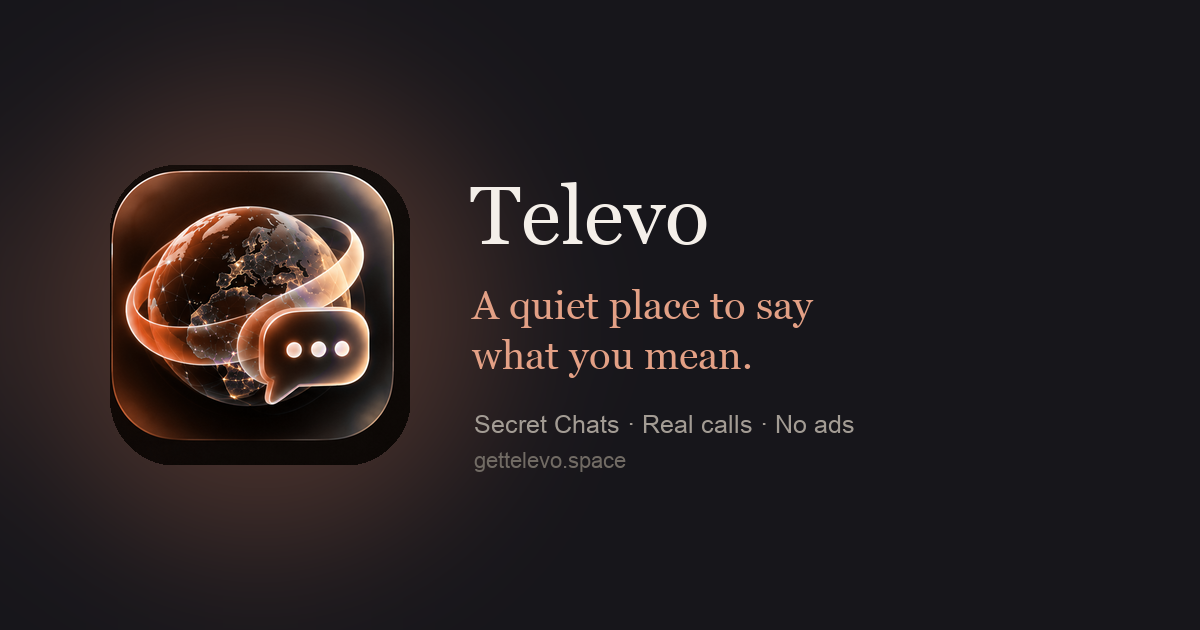
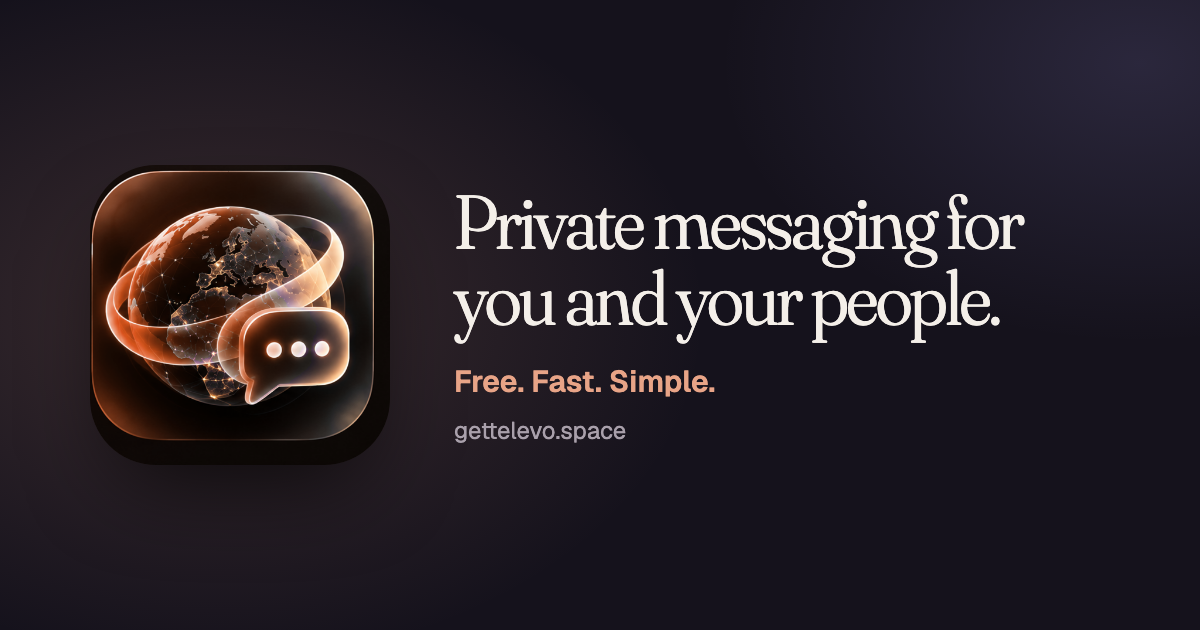
New link preview image and text; Android download always points to the latest build

diff --git a/index.html b/index.html
@@ -11,15 +11,15 @@
 <meta property="og:type" content="website">
 <meta property="og:site_name" content="Televo">
 <meta property="og:url" content="https://gettelevo.space/">
-<meta property="og:title" content="Televo — private messenger for iPhone and Android">
-<meta property="og:description" content="Cloud chats that sync everywhere. Secret Chats only two people can read. Native voice and video calls. No ads, open code.">
-<meta property="og:image" content="https://gettelevo.space/og-image.png">
+<meta property="og:title" content="Televo — private messaging for you and your people">
+<meta property="og:description" content="Free, fast and simple. Chats on every device, voice and video calls, and Secret Chats only the two of you can read. iPhone and Android.">
+<meta property="og:image" content="https://gettelevo.space/og-image.png?v=2">
 <meta property="og:image:width" content="1200">
 <meta property="og:image:height" content="630">
 <meta name="twitter:card" content="summary_large_image">
-<meta name="twitter:image" content="https://gettelevo.space/og-image.png">
-<meta name="twitter:title" content="Televo — private messenger for iPhone and Android">
-<meta name="twitter:description" content="Cloud chats that sync everywhere. Secret Chats only two people can read. No ads, open code.">
+<meta name="twitter:image" content="https://gettelevo.space/og-image.png?v=2">
+<meta name="twitter:title" content="Televo — private messaging for you and your people">
+<meta name="twitter:description" content="Free, fast and simple. Secret Chats only the two of you can read. iPhone and Android.">
 
 <link rel="apple-touch-icon" href="/apple-touch-icon.png">
 <link rel="icon" type="image/png" sizes="32x32" href="/favicon-32.png">
@@ -501,7 +501,7 @@
           <svg width="18" height="18" viewBox="0 0 24 24" fill="currentColor" aria-hidden="true"><path d="M16.37 12.6c-.02-2.2 1.8-3.26 1.88-3.31-1.03-1.5-2.62-1.7-3.18-1.72-1.35-.14-2.64.8-3.33.8-.69 0-1.74-.78-2.87-.76-1.47.02-2.83.86-3.59 2.18-1.53 2.66-.39 6.6 1.1 8.75.73 1.05 1.6 2.24 2.73 2.2 1.1-.05 1.51-.71 2.84-.71 1.32 0 1.7.71 2.86.69 1.18-.02 1.93-1.07 2.65-2.13.84-1.22 1.18-2.4 1.2-2.46-.03-.01-2.3-.88-2.32-3.5zM14.2 6.13c.6-.73 1.01-1.75.9-2.76-.87.04-1.92.58-2.54 1.31-.56.65-1.05 1.68-.92 2.67.97.08 1.96-.49 2.56-1.22z"/></svg>
           <span data-i18n="dl.ios">Download for iPhone</span>
         </a>
-        <a class="btn btn-ghost" data-dl-android href="https://github.com/AToPu-sys/televo-site/releases/download/android-b105/televo-android.apk" download>
+        <a class="btn btn-ghost" data-dl-android href="https://github.com/AToPu-sys/televo-site/releases/latest/download/televo-android.apk" download>
           <svg width="18" height="18" viewBox="0 0 24 24" fill="none" aria-hidden="true"><path d="M6.5 8.5l1.6-2.77M17.5 8.5l-1.6-2.77" stroke="currentColor" stroke-width="1.7" stroke-linecap="round"/><path d="M5 16a7 7 0 0114 0v2a1 1 0 01-1 1H6a1 1 0 01-1-1v-2z" stroke="currentColor" stroke-width="1.7"/><circle cx="9.5" cy="14" r="1" fill="currentColor"/><circle cx="14.5" cy="14" r="1" fill="currentColor"/></svg>
           <span data-i18n="dl.android">Download for Android</span>
         </a>
@@ -574,7 +574,7 @@
         <svg width="18" height="18" viewBox="0 0 24 24" fill="currentColor" aria-hidden="true"><path d="M16.37 12.6c-.02-2.2 1.8-3.26 1.88-3.31-1.03-1.5-2.62-1.7-3.18-1.72-1.35-.14-2.64.8-3.33.8-.69 0-1.74-.78-2.87-.76-1.47.02-2.83.86-3.59 2.18-1.53 2.66-.39 6.6 1.1 8.75.73 1.05 1.6 2.24 2.73 2.2 1.1-.05 1.51-.71 2.84-.71 1.32 0 1.7.71 2.86.69 1.18-.02 1.93-1.07 2.65-2.13.84-1.22 1.18-2.4 1.2-2.46-.03-.01-2.3-.88-2.32-3.5zM14.2 6.13c.6-.73 1.01-1.75.9-2.76-.87.04-1.92.58-2.54 1.31-.56.65-1.05 1.68-.92 2.67.97.08 1.96-.49 2.56-1.22z"/></svg>
         <span data-i18n="dl.ios">Download for iPhone</span>
       </a>
-      <a class="btn btn-ghost" id="download-android" data-dl-android href="https://github.com/AToPu-sys/televo-site/releases/download/android-b105/televo-android.apk" download>
+      <a class="btn btn-ghost" id="download-android" data-dl-android href="https://github.com/AToPu-sys/televo-site/releases/latest/download/televo-android.apk" download>
         <svg width="18" height="18" viewBox="0 0 24 24" fill="none" aria-hidden="true"><path d="M6.5 8.5l1.6-2.77M17.5 8.5l-1.6-2.77" stroke="currentColor" stroke-width="1.7" stroke-linecap="round"/><path d="M5 16a7 7 0 0114 0v2a1 1 0 01-1 1H6a1 1 0 01-1-1v-2z" stroke="currentColor" stroke-width="1.7"/><circle cx="9.5" cy="14" r="1" fill="currentColor"/><circle cx="14.5" cy="14" r="1" fill="currentColor"/></svg>
         <span data-i18n="dl.android">Download for Android</span>
       </a>
